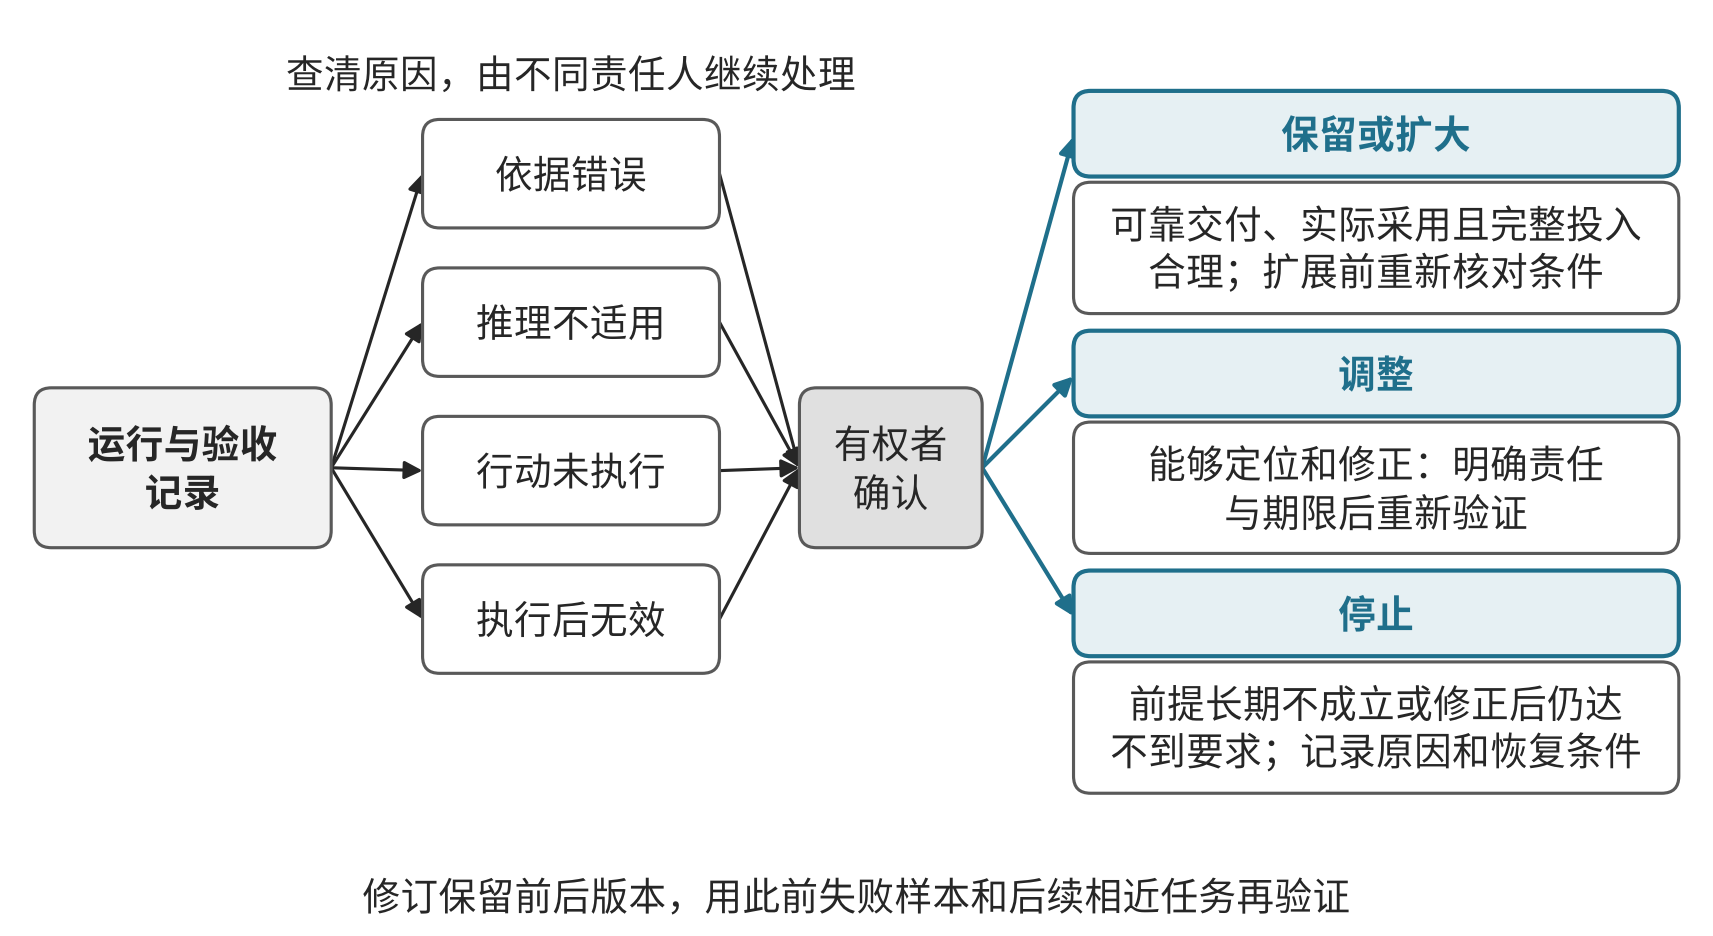
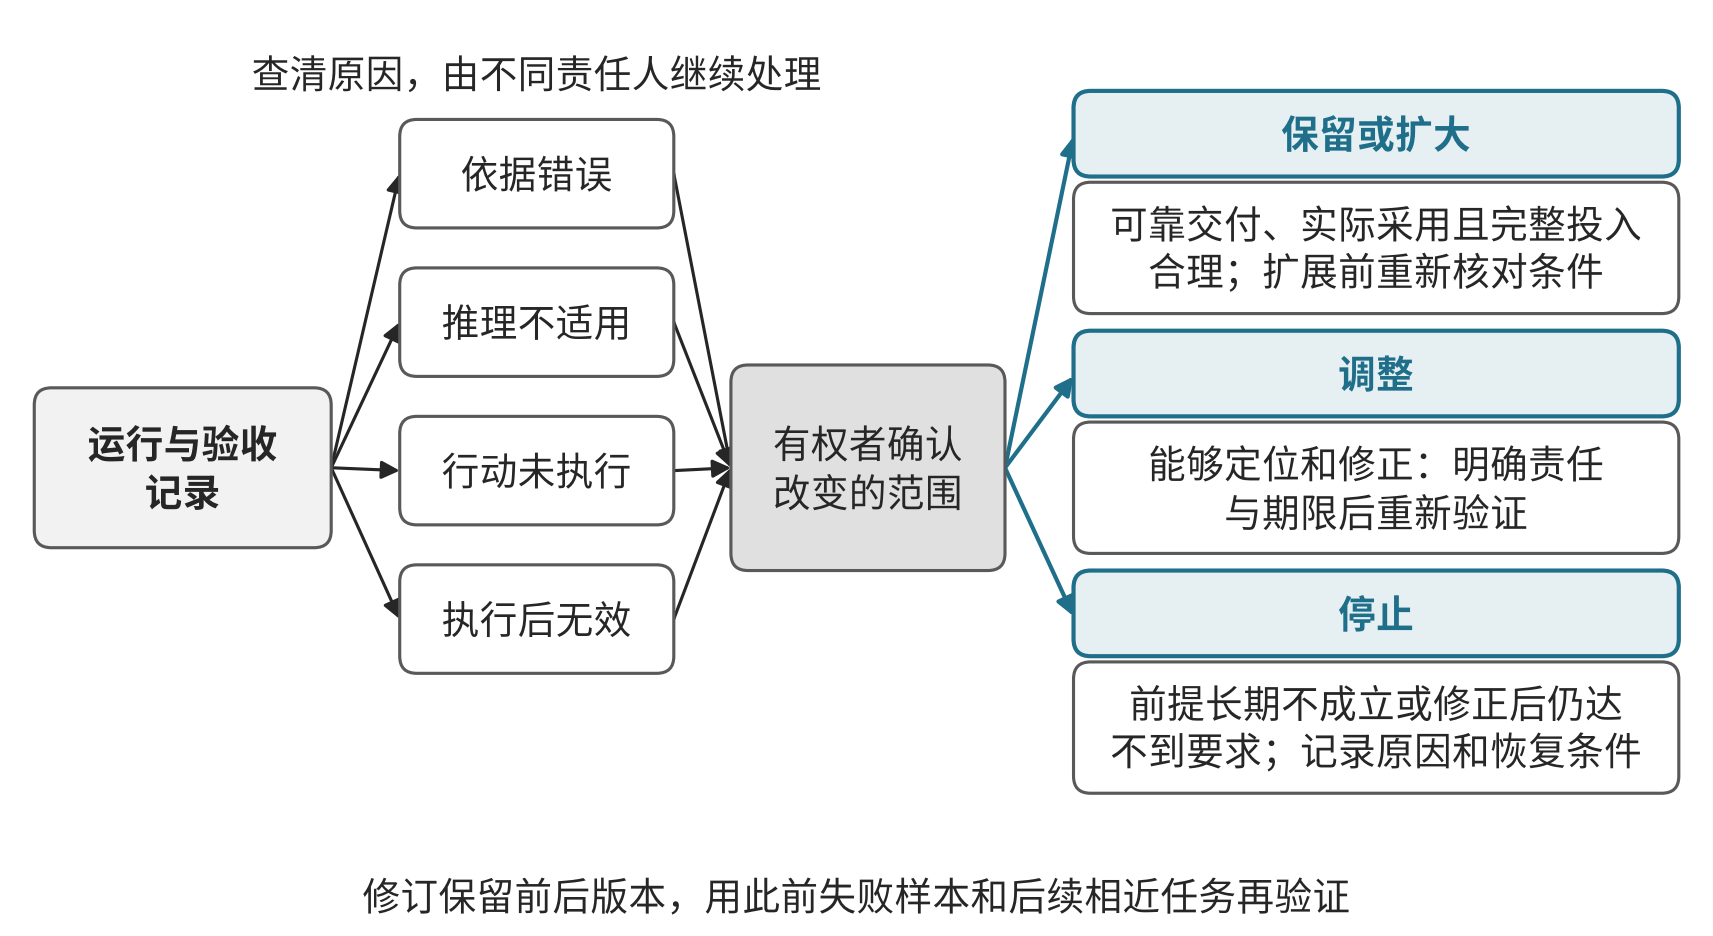
图8-3：中间节点改用正文原词「有权者确认改变的范围」

Changed region(s): [[0.1547, 0.062, 0.6188, 0.7126], [0.2785, 0.1239, 0.4332, 0.2479]]

diff --git a/scripts/figures/specs.py b/scripts/figures/specs.py
@@ -511,17 +511,17 @@ def _():
     f.box(0.3, 3.4, 2.6, 1.4, '运行与验收记录', bold=True)
     causes = ['依据错误', '推理不适用', '行动未执行', '执行后无效']
     for i, t in enumerate(causes):
-        y = 6.2 - i * 1.3; f.box(3.7, y, 2.6, 0.95, t, fill='white'); f.arrow((2.9, 4.1), (3.7, y + 0.475))
-        f.arrow((6.3, y + 0.475), (7.0, 4.1))
-    f.text(5.0, 7.55, '查清原因，由不同责任人继续处理')
-    f.box(7.0, 3.4, 1.6, 1.4, '有权者确认', fill=FILL2)
+        y = 6.2 - i * 1.3; f.box(3.5, y, 2.4, 0.95, t, fill='white'); f.arrow((2.9, 4.1), (3.5, y + 0.475))
+        f.arrow((5.9, y + 0.475), (6.4, 4.1))
+    f.text(4.7, 7.55, '查清原因，由不同责任人继续处理')
+    f.box(6.4, 3.2, 2.4, 1.8, '有权者确认改变的范围', fill=FILL2)
     outs = [('保留或扩大', '可靠交付、实际采用且完整投入合理；扩展前重新核对条件'),
             ('调整', '能够定位和修正：明确责任与期限后重新验证'),
             ('停止', '前提长期不成立或修正后仍达不到要求；记录原因和恢复条件')]
     for i, (a, b) in enumerate(outs):
         y = 5.8 - i * 2.1
         f.box(9.4, y + 0.85, 5.3, 0.75, a, accent=True, bold=True); f.box(9.4, y - 0.35, 5.3, 1.15, b, fill='white', fs=9)
-        f.arrow((8.6, 4.1), (9.4, y + 1.2), accent=True)
+        f.arrow((8.8, 4.1), (9.4, y + 1.2), accent=True)
     f.text(7.5, 0.35, '修订保留前后版本，用此前失败样本和后续相近任务再验证')
     return f
 
